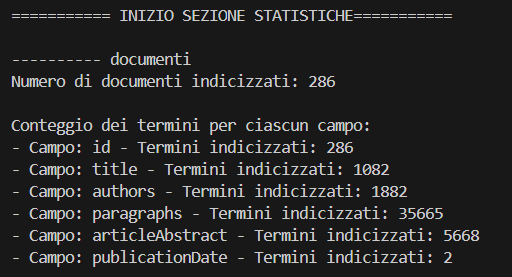
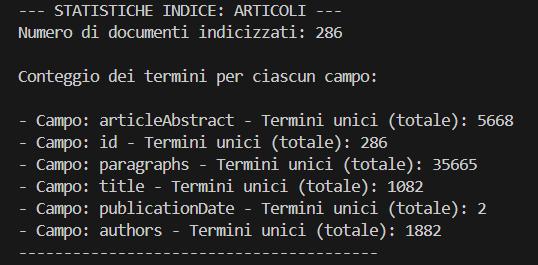
stats

diff --git a/lucene/src/main/java/it/uniroma3/idd/service/StatsService.java b/lucene/src/main/java/it/uniroma3/idd/service/StatsService.java
@@ -3,170 +3,63 @@ package it.uniroma3.idd.service;
 import org.apache.lucene.index.*;
 import org.apache.lucene.store.Directory;
 import org.apache.lucene.store.FSDirectory;
-import org.apache.lucene.util.BytesRef; // Import necessario per l'iteratore
 import org.springframework.stereotype.Service;
-
 import java.io.IOException;
 import java.nio.file.Path;
 import java.util.HashMap;
 import java.util.Map;
 
+
 @Service
 public class StatsService {
-    public void statsIndex(Path articlesPath, Path tablesPath, Path figuresPath) {
 
-        System.out.println("---------- documenti");
-        /*----------------------------------statistiche file----------------------------------*/
-        try (Directory directory = FSDirectory.open(articlesPath);
-             IndexReader reader = DirectoryReader.open(directory)) {
+    public void statsIndex(Path indexPath, String indexName) {
+        System.out.println("--- STATISTICHE INDICE: " + indexName.toUpperCase() + " ---");
 
-            int numFile = reader.numDocs();
-            System.out.println("Numero di documenti indicizzati: " + numFile);
-            System.out.println("\nConteggio dei termini per ciascun campo:");
+        try (Directory directory = FSDirectory.open(indexPath);
+             DirectoryReader reader = DirectoryReader.open(directory)) {
 
-            for (LeafReaderContext leafContext : reader.leaves()) {
-                LeafReader leafReader = leafContext.reader();
+            int numDocs = reader.numDocs();
+            System.out.println("Numero di documenti indicizzati: " + numDocs);
+            System.out.println("\nConteggio dei termini per ciascun campo:\n");
 
-                for (FieldInfo fieldInfo : leafReader.getFieldInfos()) {
-                    String fieldName = fieldInfo.name;
+            Map<String, Long> globalTermCounts = new HashMap<>();
+
+            // Itera su tutti i segmenti (Lucene 10 non permette un singolo LeafReader aggregato)
+            for (LeafReaderContext leafCtx : reader.leaves()) {
+
+                LeafReader leafReader = leafCtx.reader();
+                FieldInfos fieldInfos = leafReader.getFieldInfos();
+
+                for (FieldInfo fi : fieldInfos) {
+                    String fieldName = fi.name;
+
                     Terms terms = leafReader.terms(fieldName);
+                    if (terms == null)
+                        continue;
 
-                    if (terms != null) {
-                        TermsEnum termsEnum = terms.iterator();
-                        int termCount = 0;
-
-                        while (termsEnum.next() != null) {
-                            termCount++;
-                        }
-
-                        System.out.println("- Campo: " + fieldName +
-                                " - Termini indicizzati: " + termCount);
-                    } else {
-                        System.out.println("- Campo: " + fieldName +
-                                " - Nessun termine trovato.");
+                    long count = 0;
+                    TermsEnum te = terms.iterator();
+                    while (te.next() != null) {
+                        count++;
                     }
+                    globalTermCounts.merge(fieldName, count, Long::sum);
+                }
+            }
+
+            // Output delle statistiche aggregate
+            if (globalTermCounts.isEmpty()) {
+                System.out.println("Nessun termine trovato.");
+            } else {
+                for (Map.Entry<String, Long> entry : globalTermCounts.entrySet()) {
+                    System.out.println("- Campo: " + entry.getKey()
+                            + " - Termini unici (totale): " + entry.getValue());
                 }
             }
 
         } catch (IOException e) {
-            System.err.println("Errore durante la lettura dell'indice: " + e.getMessage());
-            e.printStackTrace();
+            System.err.println("Errore durante la lettura dell'indice " + indexName + ": " + e.getMessage());
         }
-
-        /*----------------------------------statistiche tabelle----------------------------------*/
-        System.out.println("\n---------- Tabelle ----------");
-
-        try (Directory directory = FSDirectory.open(tablesPath);
-             IndexReader reader = DirectoryReader.open(directory)) {
-
-            int numTables = reader.numDocs();
-            System.out.println("Numero totale di tabelle trovate: " + numTables);
-            System.out.println("\nConteggio dei termini per ciascun campo:");
-
-            // Mappa per accumulare i totali da tutti i segmenti (così non si ripetono le stampe)
-            Map<String, Long> fieldTermCounts = new HashMap<>();
-
-            // 1. Accumulo dei dati
-            for (LeafReaderContext leafContext : reader.leaves()) {
-                LeafReader leafReader = leafContext.reader();
-
-                for (FieldInfo fieldInfo : leafReader.getFieldInfos()) {
-                    String fieldName = fieldInfo.name;
-                    Terms terms = leafReader.terms(fieldName);
-
-                    long segmentCount = 0;
-                    if (terms != null) {
-                        // Contiamo i termini esattamente come fai sopra
-                        TermsEnum termsEnum = terms.iterator();
-                        while (termsEnum.next() != null) {
-                            segmentCount++;
-                        }
-                    }
-                    
-                    // Sommo al totale esistente per quel campo
-                    fieldTermCounts.put(fieldName, fieldTermCounts.getOrDefault(fieldName, 0L) + segmentCount);
-                }
-            }
-
-            // 2. Stampa dei risultati (Stesso stile della sezione articoli)
-            for (Map.Entry<String, Long> entry : fieldTermCounts.entrySet()) {
-                String fieldName = entry.getKey();
-                long count = entry.getValue();
-
-                if (count > 0) {
-                    System.out.println("- Campo: " + fieldName + " - Termini indicizzati: " + count);
-                } else {
-                    System.out.println("- Campo: " + fieldName + " - Nessun termine trovato.");
-                }
-            }
-
-        } catch (IOException e) {
-            System.err.println("Errore durante la lettura dell'indice delle tabelle: " + e.getMessage());
-            e.printStackTrace();
-        }
-
-        /*----------------------------------statistiche figure----------------------------------*/
-        System.out.println("\n---------- Figure ----------");
-
-        try (Directory directory = FSDirectory.open(figuresPath);
-             IndexReader reader = DirectoryReader.open(directory)) {
-
-            int numFigures = reader.numDocs();
-            System.out.println("Numero totale di figure trovate: " + numFigures);
-            System.out.println("\nConteggio dei termini per ciascun campo:");
-
-            // Mappa per accumulare i totali da tutti i segmenti
-            Map<String, Long> fieldTermCounts = new HashMap<>();
-
-            // 1. Accumulo dei dati
-            for (LeafReaderContext leafContext : reader.leaves()) {
-                LeafReader leafReader = leafContext.reader();
-
-                for (FieldInfo fieldInfo : leafReader.getFieldInfos()) {
-                    String fieldName = fieldInfo.name;
-                    Terms terms = leafReader.terms(fieldName);
-
-                    long segmentCount = 0;
-                    if (terms != null) {
-                        TermsEnum termsEnum = terms.iterator();
-                        while (termsEnum.next() != null) {
-                            segmentCount++;
-                        }
-                    }
-
-                    // Sommo al totale esistente per quel campo
-                    fieldTermCounts.put(fieldName, fieldTermCounts.getOrDefault(fieldName, 0L) + segmentCount);
-                }
-            }
-
-            // 2. Stampa dei risultati
-            for (Map.Entry<String, Long> entry : fieldTermCounts.entrySet()) {
-                String fieldName = entry.getKey();
-                long count = entry.getValue();
-
-                if (count > 0) {
-                    System.out.println("- Campo: " + fieldName + " - Termini indicizzati: " + count);
-                } else {
-                    System.out.println("- Campo: " + fieldName + " - Nessun termine trovato.");
-                }
-            }
-
-        } catch (IOException e) {
-            System.err.println("Errore durante la lettura dell'indice delle figure: " + e.getMessage());
-            e.printStackTrace();
-        }
+        System.out.println("----------------------------------------\n");
     }
 }
-
-/*
-tabella di conversione termini tabelle 
-
-json                                -->      variabile java             -->      campo lucene
-
-(Chiave dell'oggetto) S3.T1	        -->      tableId	                -->      id
-source_file	                        -->      sourceFile	                -->      sourceFilename
-caption	                            -->      caption	                -->      caption
-informative_terms_identified	    -->      informativeTerms	        -->      informative_terms
-citing_paragraphs	                -->      citingParagraphs	        -->      citing_paragraphs
-contextual_paragraphs	            -->      contextualParagraphs	    -->      contextual_paragraphs
-*/

diff --git a/lucene/src/main/java/it/uniroma3/idd/event/IndexListener.java b/lucene/src/main/java/it/uniroma3/idd/event/IndexListener.java
@@ -6,24 +6,48 @@ import org.springframework.beans.factory.annotation.Autowired;
 import org.springframework.context.ApplicationListener;
 import org.springframework.stereotype.Component;
 import org.springframework.lang.NonNull;
-
 import java.nio.file.Paths;
+import java.nio.file.Path;
+
 
 @Component
 public class IndexListener implements ApplicationListener<IndexingCompleteEvent> {
 
     private final LuceneConfig luceneConfig;
+    private final StatsService statsService;
+
 
     @Autowired
-    public IndexListener(LuceneConfig luceneConfig) {
+    public IndexListener(LuceneConfig luceneConfig, StatsService statsService) {
         this.luceneConfig = luceneConfig;
+        this.statsService = statsService;
     }
+
+
     @Override
     public void onApplicationEvent(@NonNull IndexingCompleteEvent event) {
-        System.err.println("\n\n=========== INIZIO SEZIONE STATISTICHE===========\n");
-        StatsService statistiche = new StatsService();
-        statistiche.statsIndex(Paths.get(luceneConfig.getIndexDirectory()), Paths.get(luceneConfig.getTableDirectory()), Paths.get(luceneConfig.getFigureDirectory()));
-        System.err.println("\n-=========== FINE SEZIONE STATISTICHE ===========\n\n");
+        System.err.println("------- AVVIO STATISTICHE ------");
+
+        // Ottiene il Path per l'indice degli Articoli
+        Path articlesIndexPath = Paths.get(luceneConfig.getIndexDirectory());
+        
+        // Esegue le statistiche per gli Articoli
+        statsService.statsIndex(articlesIndexPath, "ARTICOLI"); 
+
+        // Ottiene il Path per l'indice delle Tabelle
+        // Usa il nuovo campo 'tableDirectory' della configurazione
+        Path tablesIndexPath = Paths.get(luceneConfig.getTableDirectory());
+        
+        // Esegue le statistiche per le Tabelle
+        statsService.statsIndex(tablesIndexPath, "TABELLE");
+
+        // Ottiene il Path per l'indice delle Immagini
+        // Usa il nuovo campo 'imageDirectory' della configurazione
+        Path imageIndexPath = Paths.get(luceneConfig.getFigureDirectory());
+        
+        // Esegue le statistiche per le Tabelle
+        statsService.statsIndex(imageIndexPath, "IMMAGINI");
+        
+        System.err.println("--------------------------------");
     }
 }
-

diff --git a/lucene/src/main/java/it/uniroma3/idd/config/LuceneConfig.java b/lucene/src/main/java/it/uniroma3/idd/config/LuceneConfig.java
@@ -24,10 +24,6 @@ public class LuceneConfig {
     private boolean queryExplain;
 
     @Getter
-    @Value("${lucene.index.directory}")
-    private String indexDirectory;
-
-    @Getter
     @Value("${lucene.index.initialize}")
     private boolean shouldInitializeIndex;
 
@@ -46,6 +42,10 @@ public class LuceneConfig {
     @Getter
     @Value("${data.figures.path}")
     private String figuresPath;
+
+    @Getter
+    @Value("${lucene.index.directory}")
+    private String indexDirectory;
 
     @Getter
     @Value("${lucene.index_table.directory}")
